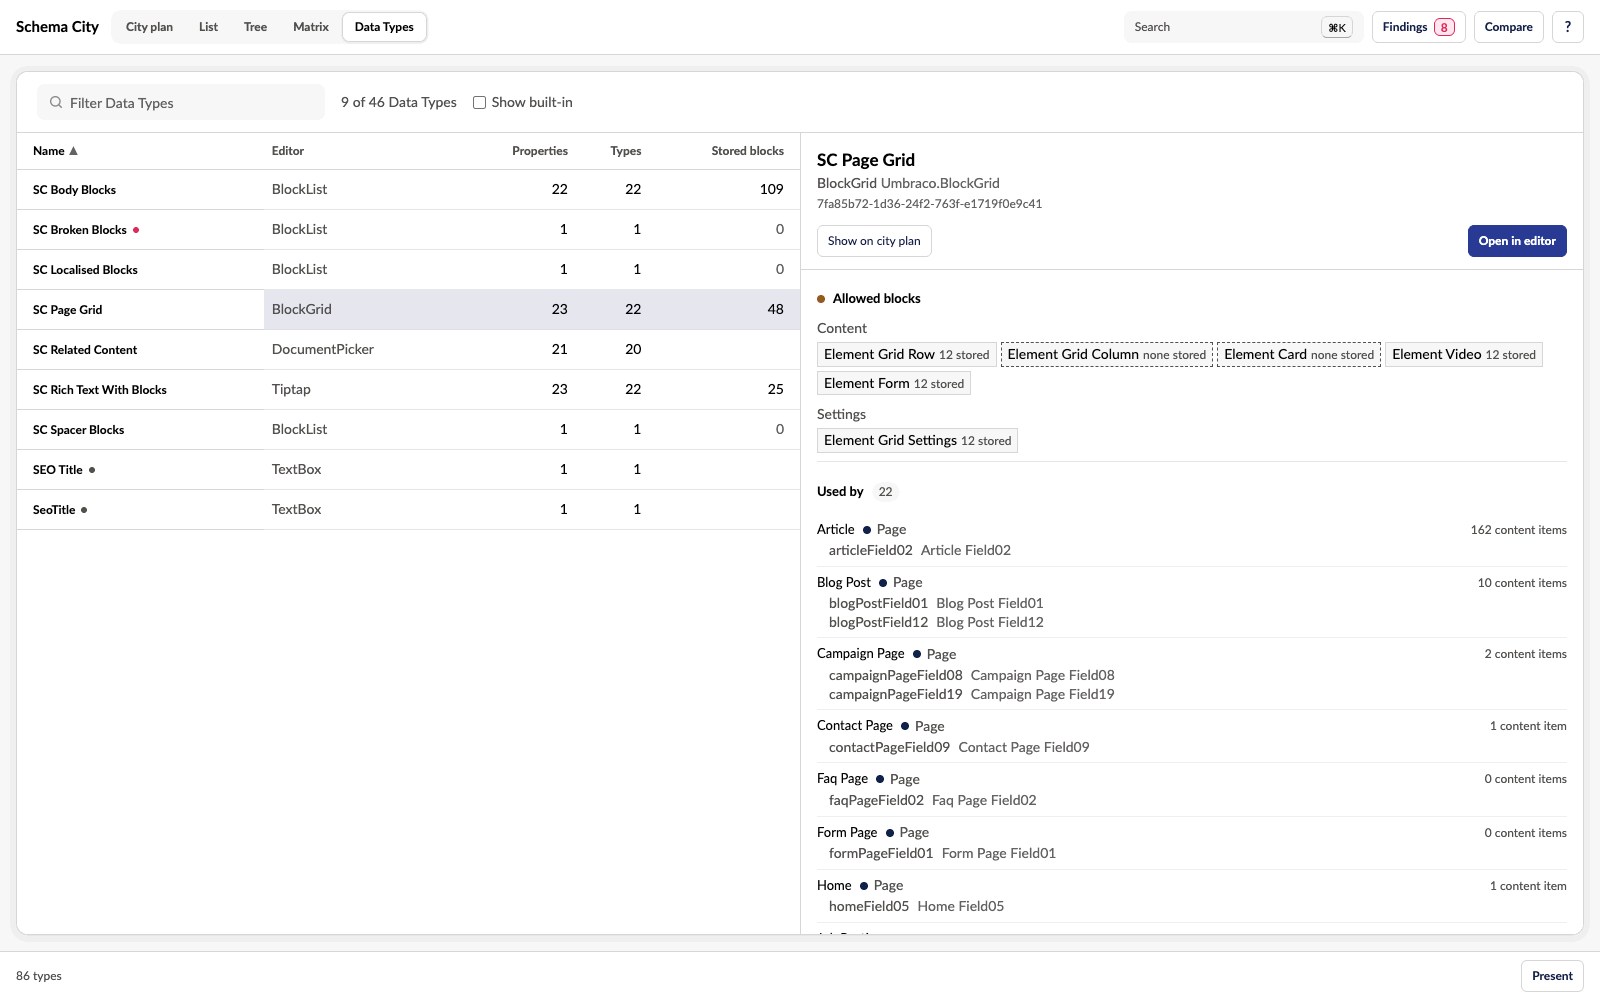
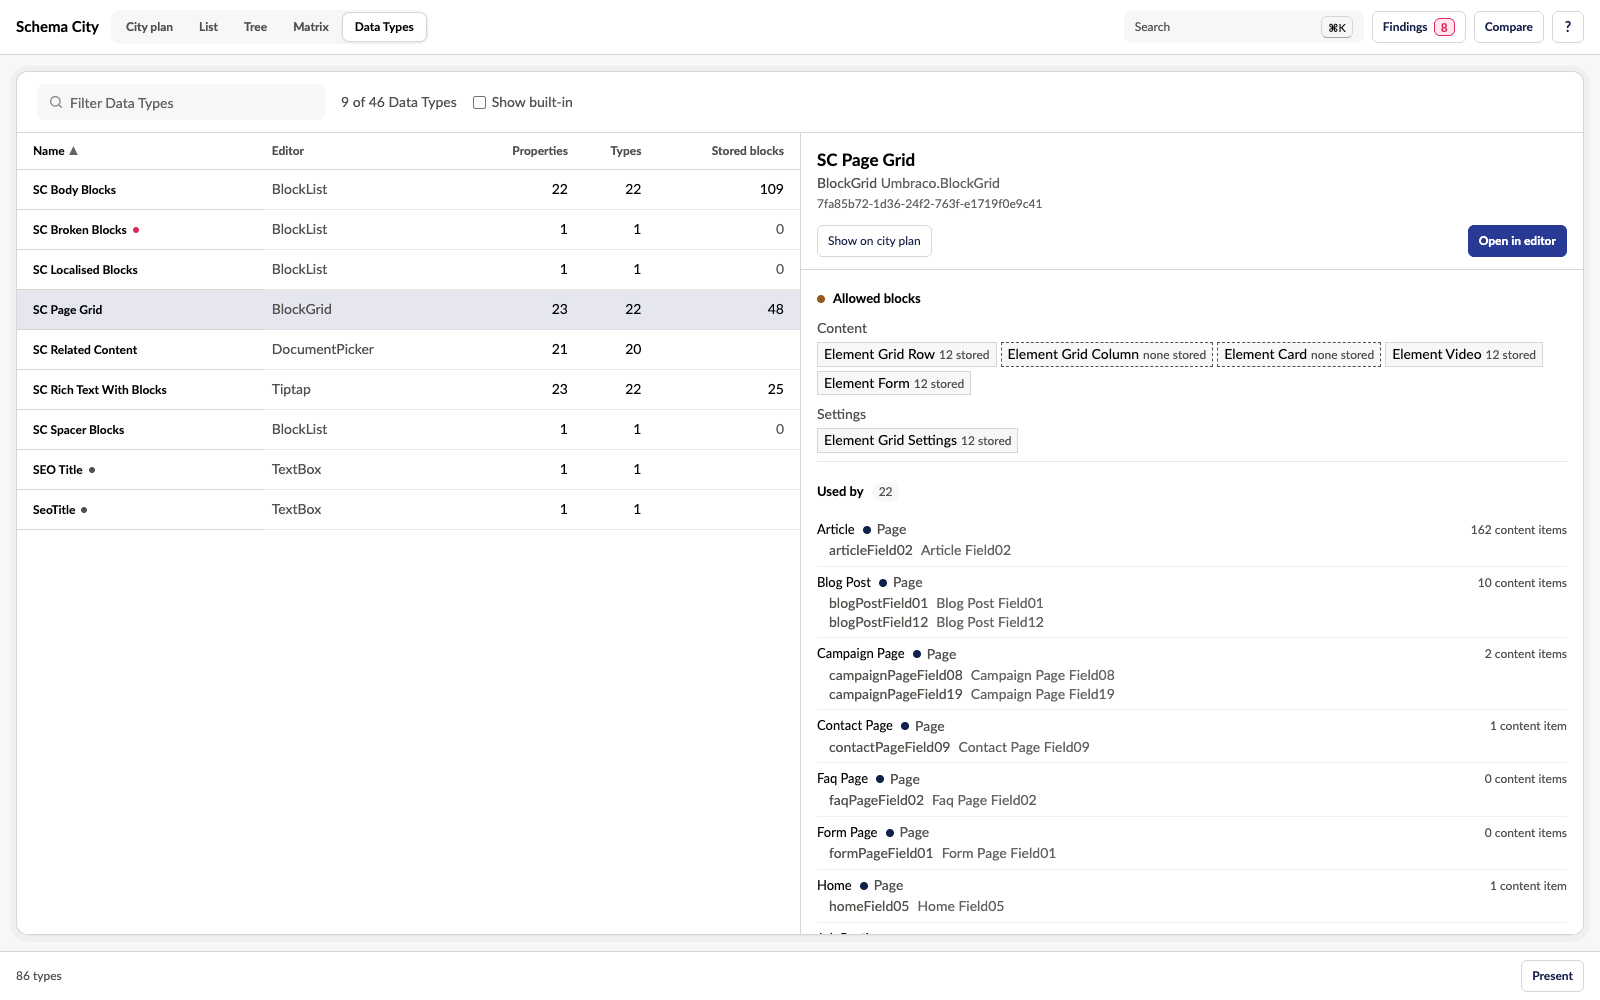
Row tint on name cells, Matrix composition headers, a quieter inspector header
A row's name cell is a th, and the clean table rule gave every th the header's
opaque panel, so hover and selection stopped short of the first column. Only
the header row is opaque now.

A composition's column header in the Matrix lit up on hover but did nothing.
It now selects that type, as a row name does, and a header with no action no
longer lights.

The inspector header's role, Root and culture tags are one plain line after
the alias in the city plan, a dot between each, rather than boxed tags.

Screenshots retaken.

Changed region(s): [[0.0, 0.279, 0.1875, 0.341]]

diff --git a/src/SchemaCity/Client/ui/src/Matrix.tsx b/src/SchemaCity/Client/ui/src/Matrix.tsx
@@ -162,6 +162,7 @@ export function Matrix({
               composition. The column total counts the types that use it.
             </>
           }
+          onColumn={onSelect}
           onSelect={onSelect}
           says={compositionSays}
           selected={selected}
@@ -226,7 +227,7 @@ function SlantedHeader({
   first,
   zIndex,
 }: HeaderProps & { first: boolean; zIndex: number }) {
-  const lane = `peer absolute inset-0 origin-bottom-left -skew-x-45 border-line/60 border-r ${first ? "border-l" : ""}`;
+  const lane = `absolute inset-0 origin-bottom-left -skew-x-45 border-line/60 border-r ${first ? "border-l" : ""}`;
   return (
     <th
       className="sticky top-0 h-40 min-w-8 border-line/60 border-b bg-panel p-0 align-bottom font-normal"
@@ -235,7 +236,7 @@ function SlantedHeader({
     >
       {onColumn ? (
         <button
-          className={`${lane} hover:bg-accent/50`}
+          className={`${lane} peer hover:bg-accent/50`}
           onClick={() => onColumn(column.id)}
           title={column.detail}
           type="button"
@@ -283,7 +284,7 @@ function Grid<Cell>({
   columnName: (column: MatrixColumn) => string;
   /** A short word printed on a column header, such as "parent". */
   tag?: (column: MatrixColumn) => string | null;
-  /** Given, a column header is a link, as a Data Type header is to its page. */
+  /** Given, a column header is a link: a composition selects its type, a Data Type opens its page. */
   onColumn?: (id: string) => void;
   columnSort: ColumnSort;
   matched: ReadonlySet<string> | null;

diff --git a/src/SchemaCity/Client/clean/src/styles.css b/src/SchemaCity/Client/clean/src/styles.css
@@ -559,6 +559,29 @@
   line-height: 1.25;
 }
 
+/* The role, Root and culture variance read as one quiet line after the alias, a
+   dot between each, rather than a row of boxed tags under the name. Plain words in
+   the label colour: the glyph's tint already says the role, and a coloured word
+   here read as a link. */
+[data-ui="inspector-header"] [data-slot="badge"] {
+  height: auto;
+  padding: 0;
+  border: 0;
+  background: none;
+  color: var(--label);
+  font-family: inherit;
+  font-size: 0.75rem;
+  font-weight: 400;
+  letter-spacing: normal;
+  overflow: visible;
+}
+
+[data-ui="inspector-header"] [data-slot="badge"]::before {
+  content: "·";
+  margin-right: 0.375rem;
+  color: var(--faint);
+}
+
 [data-ui="glyph"] {
   width: 2.5rem;
   height: 2.5rem;
@@ -810,8 +833,13 @@
   font-size: 0.75rem;
   font-weight: 600;
   color: var(--label);
-  background: var(--panel);
   border-bottom-color: var(--line);
+}
+
+/* Only the header row is opaque, for its sticky place over the scrolled rows. A
+   row's own name cell is a th too, and takes the row's hover and selection. */
+[data-ui="table"] thead th {
+  background: var(--panel);
 }
 
 [data-ui="table"] td {
